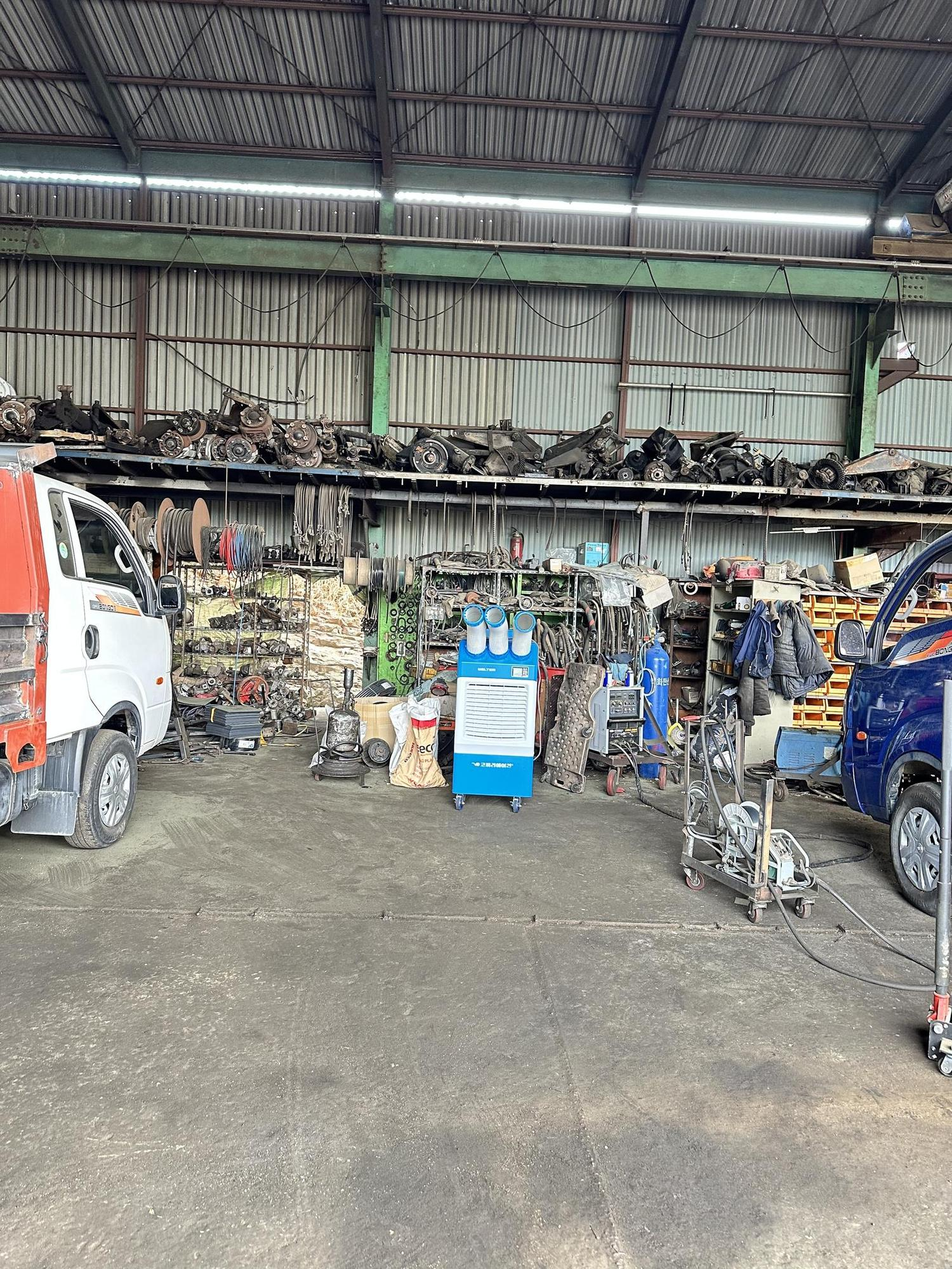
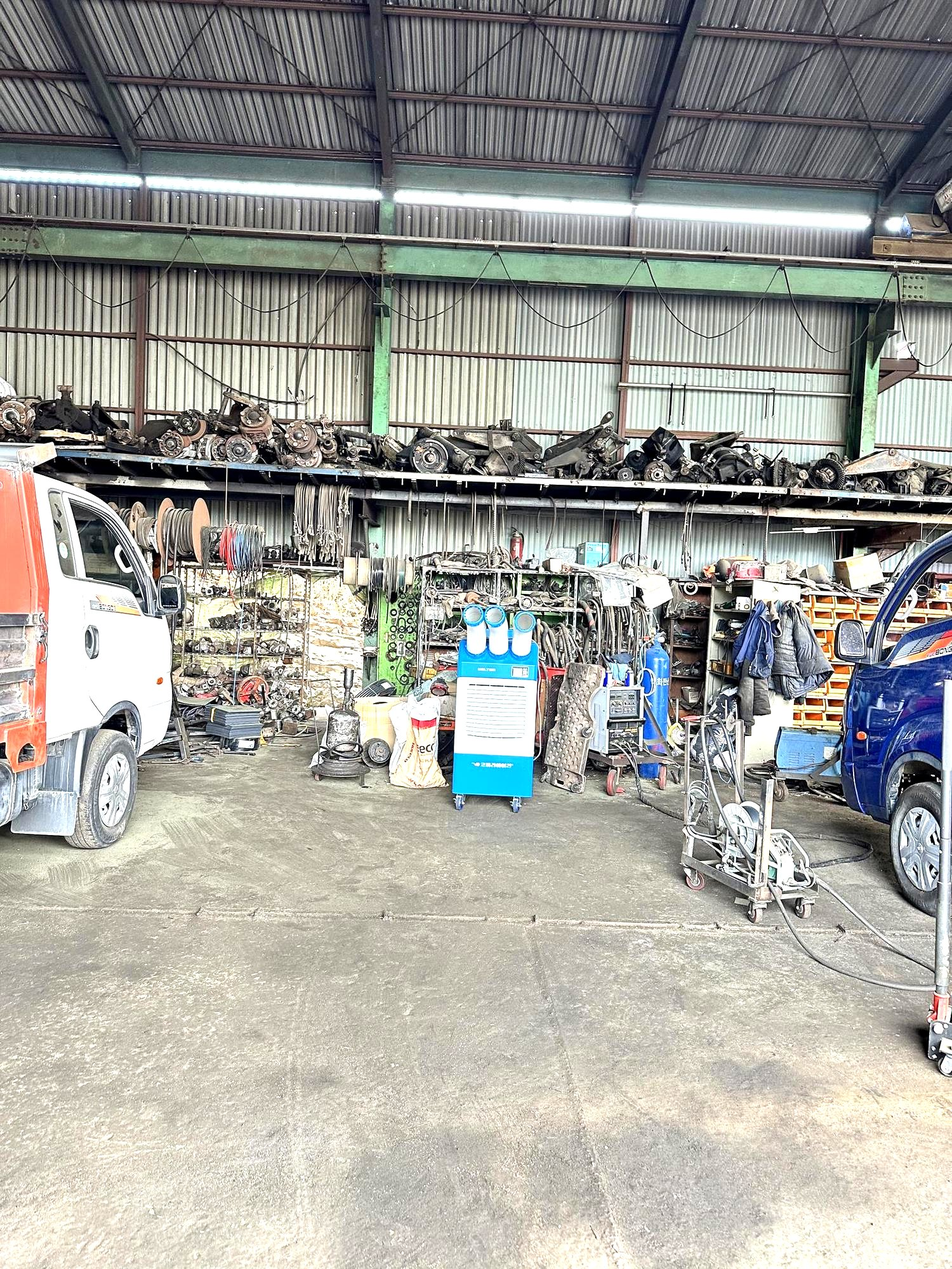
가격표 보조금 컬럼 정렬 수정(.gv 클래스 충돌), 근로자 1명당 1대 규칙 반영, 제품사진 확대, 히어로 밝기↑ + 상단 에어컨 4종 노출

diff --git a/index.html b/index.html
@@ -4,7 +4,7 @@
 <meta charset="UTF-8" />
 <meta name="viewport" content="width=device-width,initial-scale=1,viewport-fit=cover" />
 <title>산업용 이동식에어컨 | 2027 정부지원 70% · 자부담 36만원부터 - 주영산업</title>
-<meta name="description" content="웰템 WPC-4900P~WPC-9000 산업용 이동식에어컨. 220V 플러그만 꽂으면 끝, 전기·배관공사 없습니다. 2027 클린사업 보조금 70% 적용 시 자부담 369,000원부터. 사업장당 최대 5대. 신청서류 전액 대행." />
+<meta name="description" content="웰템 WPC-4900P~WPC-9000 산업용 이동식에어컨. 220V 플러그만 꽂으면 끝, 전기·배관공사 없습니다. 2027 클린사업 보조금 70% 적용 시 자부담 369,000원부터. 상시근로자 1명당 1대, 사업장당 최대 5대. 신청서류 전액 대행." />
 <meta property="og:title" content="산업용 이동식에어컨 · 2027 정부지원 70%" />
 <meta property="og:description" content="220V 플러그인, 설치공사 없음. 자부담 36만원부터. 신청 대행 무료." />
 <meta property="og:image" content="images/hero.jpg" />
@@ -74,7 +74,9 @@ const CFG = {
     ["보조금은 어떻게 받나요?",
      "<b>2027 안전보건공단 클린사업</b>으로 진행합니다. 공단 인정가의 <b>70%</b>를 정부가 지원하고 차액만 부담하시면 됩니다. <b>사업자등록증 1장만 보내주시면</b> 신청 가능 여부와 예상 자부담금을 무료로 검토해 드리고, 신청서류 작성·접수까지 전부 대행합니다."],
     ["몇 대까지 신청할 수 있나요?",
-     "사업장당 <b>최대 5대</b>까지 신청 가능합니다. 단 <b>2026년에 이미 지원받은 대수는 제외</b>하고 신청하셔야 합니다.<br>" +
+     "신청 수량은 <b>상시근로자 1명당 1대</b>로 산정되며, 사업장당 <b>최대 5대</b>까지 가능합니다.<br>" +
+     "· 근로자 <b>2명</b> → <b>2대</b> / 근로자 <b>5명</b> → <b>5대</b> / 근로자 <b>10명</b> → <b>5대</b>(한도)<br>" +
+     "여기에 더해 <b>2026년에 이미 지원받은 대수는 제외</b>하고 신청하셔야 합니다.<br>" +
      "· 2026년 <b>3대</b> 지원받으셨다면 → <b>2대</b>만 신청 가능<br>" +
      "· 2026년 <b>5대</b> 지원받으셨다면 → <b>신청 불가</b><br>" +
      "· <b>2025년</b>에 5대를 지원받으셨다면 → <b>5대 모두 신청 가능</b> (차감되지 않습니다)<br>" +
@@ -148,11 +150,34 @@ h2 em{font-style:normal;color:var(--or)}
 @media(max-width:560px){.topbar .lg{font-size:14px}.tb-btn{padding:8px 12px;font-size:12.5px}}
 
 /* 히어로 */
-.hero{position:relative;background:#06101e;color:#fff;overflow:hidden;padding:98px 0 58px}
-.hero .hbg{position:absolute;inset:0;width:100%;height:100%;object-fit:cover;opacity:.26}
+.hero{position:relative;background:linear-gradient(180deg,#16365c,#0c2240);color:#fff;
+  overflow:hidden;padding:92px 0 54px}
+.hero .hbg{position:absolute;inset:0;width:100%;height:100%;object-fit:cover;opacity:.42}
 .hero::after{content:"";position:absolute;inset:0;
-  background:radial-gradient(900px 520px at 16% 26%,rgba(10,132,255,.26),transparent 62%),
-             linear-gradient(180deg,rgba(6,16,30,.82),rgba(6,16,30,.96))}
+  background:radial-gradient(900px 520px at 16% 26%,rgba(10,132,255,.2),transparent 62%),
+             linear-gradient(180deg,rgba(11,30,56,.5),rgba(9,24,46,.84))}
+/* 히어로 2단: 좌 카피 / 우 제품 4종 */
+.h-in{display:grid;grid-template-columns:1.06fr .94fr;column-gap:38px;row-gap:26px;
+  align-items:center;grid-template-areas:"txt shots" "bot shots"}
+.h-txt{grid-area:txt}
+.h-bot{grid-area:bot}
+.h-shots{grid-area:shots;display:grid;grid-template-columns:repeat(2,1fr);gap:13px}
+@media(max-width:1000px){
+  .h-in{grid-template-columns:1fr;grid-template-areas:"txt" "shots" "bot";row-gap:24px}
+  .h-shots{grid-template-columns:repeat(4,1fr);gap:10px}
+}
+@media(max-width:700px){.h-shots{grid-template-columns:repeat(2,1fr);gap:11px}}
+.h-shots figure{position:relative;background:#fff;border-radius:17px;overflow:hidden;
+  border:1px solid rgba(255,255,255,.6);box-shadow:0 14px 34px rgba(0,0,0,.34)}
+.h-shots figure.b{outline:2.5px solid var(--or);outline-offset:-2.5px}
+.h-shots .bg{position:absolute;right:0;top:0;z-index:2;background:var(--or);color:#fff;
+  font-size:10px;font-weight:900;letter-spacing:.08em;padding:4px 9px;border-bottom-left-radius:9px}
+.h-shots img{width:100%;aspect-ratio:1/1;object-fit:contain;display:block;padding:9px 9px 0;background:#fff}
+.h-shots figcaption{padding:7px 10px 10px;text-align:center;background:#fff}
+.h-shots .nm{font-size:13.5px;font-weight:900;color:#0b1220;letter-spacing:-.04em;line-height:1.15}
+.h-shots .cp{font-size:11.5px;font-weight:800;color:#0a84ff;margin-top:2px}
+.h-shots .pz{font-size:11.5px;font-weight:800;color:#5a6676;margin-top:2px}
+.h-shots .pz b{color:#e8590c}
 .hero .wrap{position:relative;z-index:2}
 .h-badge{display:inline-flex;align-items:center;gap:8px;background:rgba(10,132,255,.2);
   border:1px solid rgba(77,178,255,.5);color:#9fd2ff;font-size:13px;font-weight:800;
@@ -162,7 +187,7 @@ h2 em{font-style:normal;color:var(--or)}
 .hero h1 em{font-style:normal;color:var(--or2);text-shadow:0 2px 24px rgba(10,132,255,.5)}
 .hero .sub{margin-top:18px;font-size:clamp(15px,2.4vw,17.5px);color:#c3d0e0;max-width:620px;line-height:1.72}
 .hero .sub b{color:#fff}
-.h-money{margin-top:26px;display:inline-flex;flex-direction:column;gap:2px;
+.h-money{margin-top:4px;display:inline-flex;flex-direction:column;gap:2px;
   background:linear-gradient(135deg,rgba(10,132,255,.18),rgba(10,132,255,.04));
   border:1px solid rgba(77,178,255,.42);border-radius:18px;padding:16px 24px}
 .h-money .k{font-size:13px;font-weight:700;color:#9fd2ff;letter-spacing:.04em}
@@ -196,7 +221,7 @@ h2 em{font-style:normal;color:var(--or)}
 
 /* 모델 라인업 */
 .lineup{display:grid;grid-template-columns:repeat(4,1fr);gap:14px}
-@media(max-width:980px){.lineup{grid-template-columns:repeat(2,1fr)}}
+@media(max-width:1060px){.lineup{grid-template-columns:repeat(2,1fr)}}
 @media(max-width:470px){.lineup{grid-template-columns:1fr}}
 .lc{position:relative;background:#fff;border:1px solid var(--line);border-radius:16px;
   padding:0 0 20px;box-shadow:var(--sh);display:flex;flex-direction:column;
@@ -205,9 +230,9 @@ h2 em{font-style:normal;color:var(--or)}
 .lc.best{border:2px solid var(--or)}
 .lc .bst{position:absolute;right:0;top:0;background:var(--or);color:#fff;font-size:11px;
   font-weight:900;letter-spacing:.08em;padding:6px 12px;border-bottom-left-radius:10px;z-index:2}
-.lc .ph{aspect-ratio:1/1;background:#f6f9fc;display:grid;place-items:center;border-bottom:1px solid var(--line)}
+.lc .ph{aspect-ratio:1/1.08;background:#fff;display:grid;place-items:center;border-bottom:1px solid var(--line)}
 .lc .ph img{width:100%;height:100%}
-.lc .ph img.contain{object-fit:contain;padding:8px}
+.lc .ph img.contain{object-fit:contain;padding:4px}
 .lc .ph img.cover{object-fit:cover}
 .lc .bd{padding:18px 18px 0;display:flex;flex-direction:column;flex:1}
 .lc .mm{font-size:22px;font-weight:900;letter-spacing:-.045em;color:var(--ink);line-height:1.1}
@@ -284,7 +309,7 @@ h2 em{font-style:normal;color:var(--or)}
 .ptab tr.best{background:#f5fbff}
 .ptab td.mm{font-weight:900;color:var(--or);font-size:14.5px}
 .ptab td.pr{font-weight:900;color:var(--ink)}
-.ptab td.gv{font-weight:900;color:var(--gr)}
+.ptab td.gov{font-weight:900;color:var(--gr)}
 .ptab td.sf{font-weight:900;color:var(--or)}
 .ptab td.sm{font-size:13px;color:var(--mute);font-weight:600}
 .ptab th.rh{background:#f8fafc;text-align:left;padding-left:16px;font-size:12.5px;color:#38404c;position:sticky;left:0}
@@ -473,13 +498,18 @@ footer a{color:#c9d1dc}
 <!-- ================= HERO ================= -->
 <header class="hero">
   <img class="hbg" src="images/hero.jpg" alt="" aria-hidden="true" />
-  <div class="wrap">
+  <div class="wrap h-in">
+   <div class="h-txt">
     <div class="h-badge"><b>2027 클린사업</b> 지원품목 · 신청서류 전액 대행</div>
     <h1>공장이 더워서<br>사람이 <em>안 버팁니다</em></h1>
     <p class="sub">실외기도, 벽 타공도, 배관공사도 없습니다.<br>
-      <b>220V 콘센트에 플러그만 꽂으면</b> 작업자 바로 앞이 시원해집니다.
+      <b>220V 콘센트에 플러그만 꽂으면</b> 작업자 바로 앞이 시원해집니다.<br>
       <b>정부지원 70%</b>로 들여놓으세요.</p>
+   </div>
 
+   <div class="h-shots" id="heroShots"></div>
+
+   <div class="h-bot">
     <div class="h-money">
       <div class="k">정부지원 70% 적용 시 자부담</div>
       <div class="v">369,000원<small>부터</small></div>
@@ -494,10 +524,11 @@ footer a{color:#c9d1dc}
     <div class="h-chips">
       <span class="chip">설치공사 <b>없음</b></span>
       <span class="chip">정부지원 <b>70%</b></span>
-      <span class="chip">사업장당 최대 <b>5대</b></span>
+      <span class="chip">근로자 <b>1명당 1대</b> · 최대 <b>5대</b></span>
       <span class="chip">사업자등록증 <b>1장</b>이면 조회</span>
       <span class="chip">신청 · 서류 <b>전액 대행</b></span>
     </div>
+   </div>
   </div>
 </header>
 
@@ -505,7 +536,7 @@ footer a{color:#c9d1dc}
   <div class="c"><div class="n">자부담 36.9만원~</div><div class="l">정부지원 70% 적용 시</div></div>
   <div class="c"><div class="n">220V 플러그인</div><div class="l">전기·배관공사 ZERO</div></div>
   <div class="c"><div class="n">4,700 ~ 10,600W</div><div class="l">4가지 모델 냉방능력</div></div>
-  <div class="c"><div class="n">최대 5대</div><div class="l">사업장당 신청 한도</div></div>
+  <div class="c"><div class="n">근로자 1명당 1대</div><div class="l">사업장당 최대 5대 한도</div></div>
 </div></div>
 
 <!-- ================= 모델 라인업 ================= -->
@@ -519,7 +550,7 @@ footer a{color:#c9d1dc}
     <div class="lineup fadein" id="lineGrid"></div>
     <div class="cnote" style="color:var(--mute);margin-top:20px">
       ※ <b style="color:var(--rd)">WPC-1700은 지원 대상에서 제외</b>되어 안내하지 않습니다.
-      위 4개 모델만 신청이 가능하며, <b style="color:var(--ink)">사업장당 최대 5대</b>까지 신청하실 수 있습니다.
+      위 4개 모델만 신청이 가능하며, 수량은 <b style="color:var(--ink)">상시근로자 1명당 1대</b> 기준으로 <b style="color:var(--ink)">사업장당 최대 5대</b>까지 신청하실 수 있습니다.
     </div>
   </div>
 </section>
@@ -541,7 +572,7 @@ footer a{color:#c9d1dc}
       </div>
 
       <div class="cfield">
-        <div class="lb"><span>필요 수량 (최대 5대)</span><b id="qVal">1대</b></div>
+        <div class="lb"><span>필요 수량 (근로자 1명당 1대 · 최대 5대)</span><b id="qVal">1대</b></div>
         <input type="range" id="qRange" min="1" max="5" step="1" value="1" />
       </div>
 
@@ -553,8 +584,9 @@ footer a{color:#c9d1dc}
       </div>
 
       <div class="cnote">※ 보조금은 <b style="color:#fff">공단 인정가 × 70%</b> 기준입니다.
-        신청 한도는 <b style="color:#fff">사업장당 최대 5대</b>이며,
-        <b style="color:#fff">2026년에 이미 지원받은 대수는 제외</b>하고 신청하셔야 합니다.<br>
+        신청 수량은 <b style="color:#fff">상시근로자 1명당 1대</b>(근로자 3명 → 3대)로 산정되며
+        <b style="color:#fff">사업장당 최대 5대</b>까지 가능합니다.
+        여기에서 <b style="color:#fff">2026년에 이미 지원받은 대수는 제외</b>하고 신청하셔야 합니다.<br>
         실제 지원율·한도는 사업 공고와 심사 결과에 따라 달라지므로 <b style="color:#fff">무료 조회로 확인</b>해 드립니다.</div>
 
       <a class="btn btn-pri btn-lg" href="#apply" data-cta="calc" style="margin-top:20px">이 조건으로 지원금 조회하기</a>
@@ -583,7 +615,8 @@ footer a{color:#c9d1dc}
       <div class="t">⚠ 신청 전 반드시 확인해 주세요</div>
       <ul>
         <li><b>WPC-1700은 지원불가</b>입니다. WPC-4900P / 5900P / 6900P / 9000 만 신청 가능합니다.</li>
-        <li><b>사업장당 최대 5대</b>까지 신청 가능하며, <b>2026년에 지원받은 대수는 제외</b>하고 신청해야 합니다. (2025년 지원분은 차감되지 않습니다)</li>
+        <li>신청 수량은 <b>상시근로자 1명당 1대</b> 기준이며 <b>사업장당 최대 5대</b>까지 가능합니다. (근로자 2명 → 2대 / 근로자 7명 → 5대)</li>
+        <li><b>2026년에 지원받은 대수는 제외</b>하고 신청해야 합니다. (2025년 지원분은 차감되지 않습니다)</li>
         <li><b>WPC-9000은 설치비 100,000원이 별도</b>로 발생합니다 (나머지 모델은 플러그인으로 설치비 없음).</li>
         <li>모든 금액은 <b>공급가액 기준이며 부가세는 별도</b>입니다.</li>
         <li>보조금은 <b>공단 인정가 기준</b>으로 산정되며, 지원율·한도는 심사 결과에 따라 달라질 수 있습니다.</li>
@@ -656,14 +689,17 @@ footer a{color:#c9d1dc}
       </div>
       <div class="gv-c">
         <div class="k">LIMIT · 신청 한도</div>
-        <h4>사업장당 최대 5대</h4>
-        <div class="s">2026년에 지원받은 대수는 제외하고 신청</div>
+        <h4>근로자 1명당 1대 · 최대 5대</h4>
+        <div class="s">상시근로자 수만큼 신청 — 단 2026년 지원분은 차감</div>
         <dl>
-          <dt>최대 수량</dt><dd class="hi">5대</dd>
+          <dt>산정 기준</dt><dd class="hi">상시근로자 1명당 1대</dd>
+          <dt>최대 수량</dt><dd class="hi">사업장당 5대</dd>
           <dt>차감 기준</dt><dd>2026년 지원분</dd>
           <dt>2025년 지원분</dt><dd>차감 없음</dd>
         </dl>
         <div class="exbox">
+          <div class="ex">근로자 <b>2명</b> → <b class="g">2대</b> 신청 가능</div>
+          <div class="ex">근로자 <b>7명</b> → <b class="g">5대</b> (최대 한도)</div>
           <div class="ex">2026년 <b>3대</b> 지원 → <b class="g">2대</b> 신청 가능</div>
           <div class="ex">2026년 <b>5대</b> 지원 → <b class="r">신청 불가</b></div>
           <div class="ex">2025년 <b>5대</b> 지원 → <b class="g">5대</b> 신청 가능</div>
@@ -738,7 +774,7 @@ footer a{color:#c9d1dc}
 
           <div class="g2">
             <div class="fgrp">
-              <label class="lb">필요 수량 <span class="hint">최대 5대</span></label>
+              <label class="lb">필요 수량 <span class="hint">근로자 1명당 1대 · 최대 5대</span></label>
               <input type="number" name="qty" inputmode="numeric" min="1" max="5" placeholder="예) 2" />
             </div>
             <div class="fgrp">
@@ -754,8 +790,9 @@ footer a{color:#c9d1dc}
             </div>
           </div>
           <div class="fhelp" style="margin-top:-10px;margin-bottom:20px">
-            ※ 사업장당 <b>최대 5대</b>까지 신청 가능하며,
-            <b>2026년에 지원받은 대수는 제외</b>하고 신청하셔야 합니다.
+            ※ 신청 수량은 <b>상시근로자 1명당 1대</b> 기준이며 <b>사업장당 최대 5대</b>까지 가능합니다.
+            (근로자 2명 → 2대 / 근로자 7명 → 5대)<br>
+            ※ 여기에서 <b>2026년에 지원받은 대수는 제외</b>하고 신청하셔야 합니다.
             (2025년에 받으신 것은 차감되지 않습니다)
           </div>
 
@@ -790,12 +827,10 @@ footer a{color:#c9d1dc}
               <input type="tel" name="phone" inputmode="numeric" placeholder="010-1234-5678" required />
             </div>
             <div class="fgrp">
-              <label class="lb">상시근로자 수</label>
-              <select name="headcount">
-                <option value="">선택해 주세요</option>
-                <option>5인 미만</option><option>5 ~ 9인</option>
-                <option>10 ~ 29인</option><option>30 ~ 49인</option><option>50인 이상</option>
-              </select>
+              <label class="lb">상시근로자 수<span class="req">*</span>
+                <span class="hint">1명당 1대 산정</span></label>
+              <input type="number" name="headcount" inputmode="numeric" min="1" max="999"
+                     placeholder="예) 3" required />
             </div>
           </div>
 
@@ -832,7 +867,7 @@ footer a{color:#c9d1dc}
       ※ 모든 금액은 공급가액 기준이며 부가세는 별도입니다. 세금계산서는 의무 발행됩니다.<br>
       ※ 보조금은 공단 인정가 기준으로 산정되며, 지원 대상·비율·한도는 각 사업 공고 및 심사 결과에 따라 달라질 수 있습니다.<br>
       ※ WPC-1700은 지원 대상에서 제외되었습니다. WPC-9000은 설치비 100,000원이 별도입니다.<br>
-      ※ 신청 한도는 사업장당 최대 5대이며, 2026년에 지원받은 대수는 제외하고 신청해야 합니다.
+      ※ 신청 수량은 상시근로자 1명당 1대 기준이며 사업장당 최대 5대입니다. 2026년에 지원받은 대수는 제외하고 신청해야 합니다.
     </div>
   </div>
 </footer>
@@ -860,6 +895,19 @@ footer a{color:#c9d1dc}
     CFG.bizName + ' · 담당 ' + CFG.contact + '<br>' +
     '상담문의 <a href="'+tel+'"><b>'+CFG.phone+'</b></a> (24시간 통화 가능)<br>' +
     '&copy; ' + new Date().getFullYear() + ' ' + CFG.brand + '. All rights reserved.';
+
+  /* ---- 히어로 제품 4종 ---- */
+  const hs = $('#heroShots');
+  if(hs) hs.innerHTML = CFG.models.map(m=>`
+    <figure class="${m.best?'b':''}">
+      ${m.best?'<span class="bg">BEST</span>':''}
+      <img src="images/${m.img}" alt="웰템 ${m.key} 산업용 이동식에어컨" fetchpriority="high">
+      <figcaption>
+        <div class="nm">${m.key}</div>
+        <div class="cp">${m.cool} · ${m.area}</div>
+        <div class="pz">자부담 <b>${m.self.toLocaleString('ko-KR')}원</b></div>
+      </figcaption>
+    </figure>`).join('');
 
   /* ---- 모델 라인업 ---- */
   $('#lineGrid').innerHTML = CFG.models.map(m=>`
@@ -896,7 +944,7 @@ footer a{color:#c9d1dc}
       <td class="sm">${m.cool}</td>
       <td class="sm">${m.area}</td>
       <td class="pr">${m.price.toLocaleString('ko-KR')}원</td>
-      <td class="gv">${m.gov.toLocaleString('ko-KR')}원</td>
+      <td class="gov">${m.gov.toLocaleString('ko-KR')}원</td>
       <td class="sf">${m.self.toLocaleString('ko-KR')}원${m.install?'<br><small style="color:#e03131;font-size:11px">+설치비 10만</small>':''}</td>
     </tr>`).join('');
 
@@ -1046,9 +1094,21 @@ footer a{color:#c9d1dc}
     else if(x.length>5)         x=x.replace(/(\d{3})(\d{2})(\d+)/,'$1-$2-$3');
     e.target.value=x;
   });
-  form.qty.addEventListener('input',e=>{
-    if(+e.target.value > 5) e.target.value = 5;
-  });
+  function qCap(){
+    const w = parseInt(form.headcount.value,10);
+    return (w>0) ? Math.min(w,5) : 5;
+  }
+  function clampQty(){
+    const cap = qCap(), hint = form.qty.closest('.fgrp').querySelector('.hint');
+    form.qty.max = cap;
+    if(+form.qty.value > cap) form.qty.value = cap;
+    const w = parseInt(form.headcount.value,10);
+    if(hint) hint.textContent = (w>0)
+      ? `근로자 ${w}명 → 최대 ${cap}대`
+      : '근로자 1명당 1대 · 최대 5대';
+  }
+  form.qty.addEventListener('input',clampQty);
+  form.headcount.addEventListener('input',clampQty);
   function show(t,k){ msg.textContent=t; msg.className='msg '+k;
     msg.scrollIntoView({behavior:'smooth',block:'center'}); }
 
@@ -1063,6 +1123,10 @@ footer a{color:#c9d1dc}
     if(form.bizno.value.replace(/[^0-9]/g,'').length !== 10)
                                    return show('사업자등록번호 10자리를 정확히 입력해 주세요. (업종코드 조회용)','err');
     if(!form.prev26.value)         return show('2026년에 지원받은 이동식에어컨 대수를 선택해 주세요.','err');
+    const wk = parseInt(form.headcount.value,10);
+    if(!(wk>0))                    return show('상시근로자 수를 입력해 주세요. (신청 수량은 근로자 1명당 1대로 산정됩니다)','err');
+    if(form.qty.value && +form.qty.value > Math.min(wk,5))
+                                   return show('신청 수량은 상시근로자 1명당 1대 기준입니다. 근로자 '+wk+'명이면 최대 '+Math.min(wk,5)+'대까지 신청 가능합니다.','err');
     const em = form.email.value.trim();
     if(em && !/^[^\s@]+@[^\s@]+\.[^\s@]{2,}$/.test(em))
                                    return show('이메일 주소를 정확히 입력해 주세요.','err');
